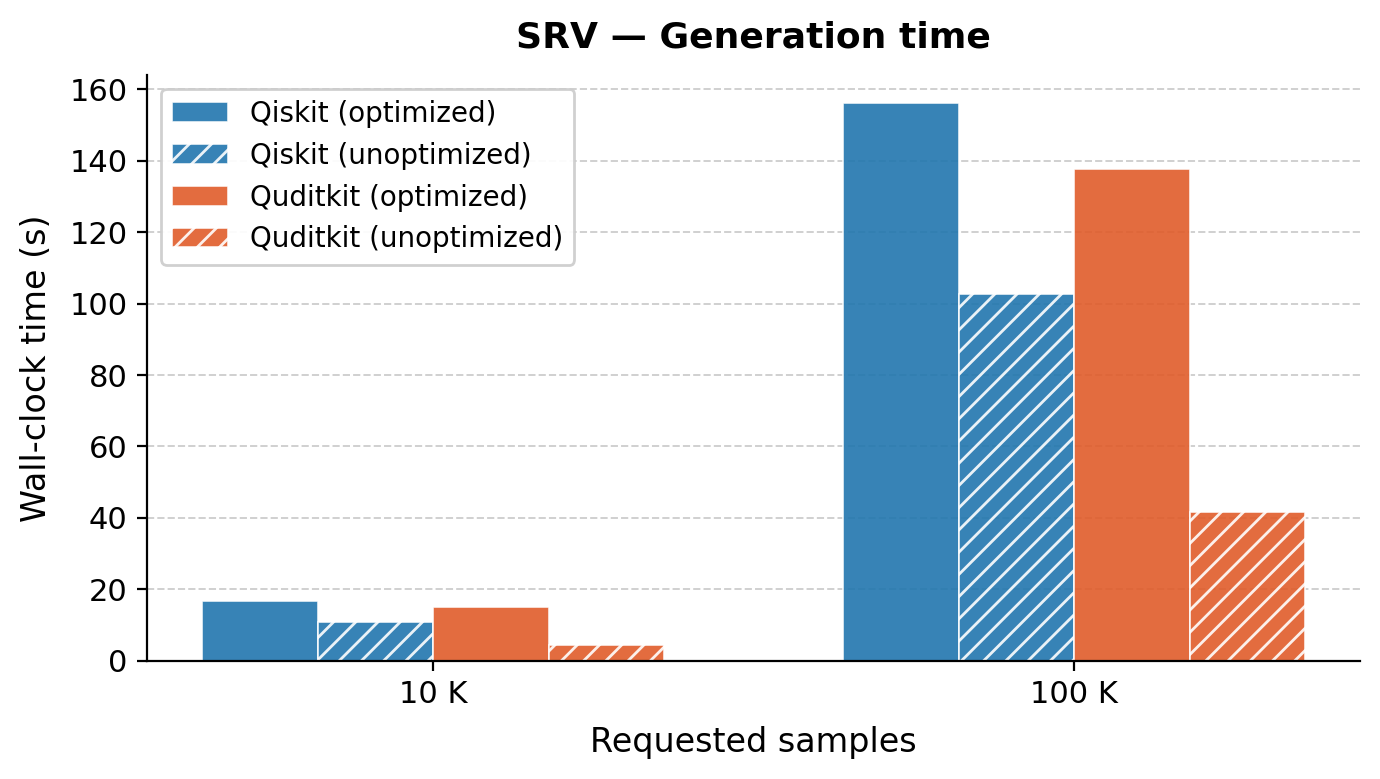
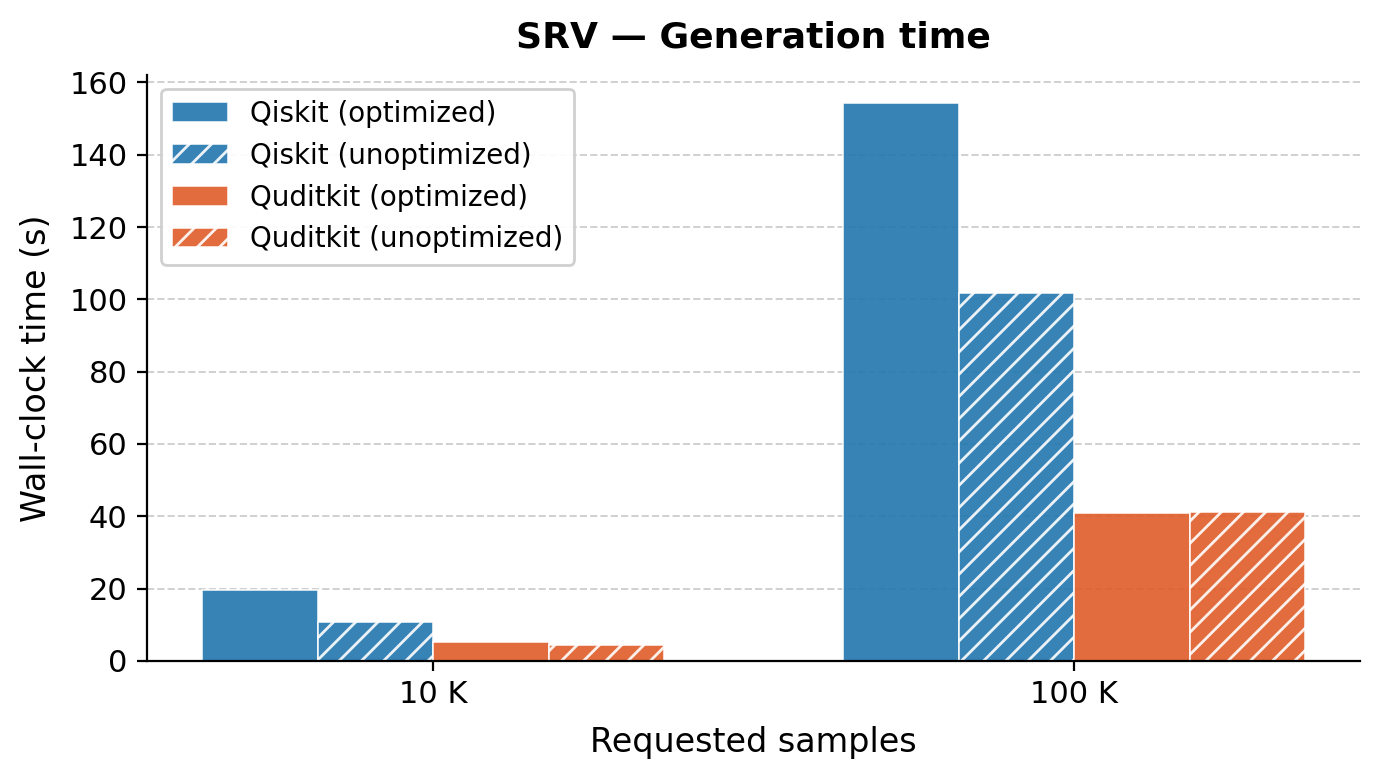
Updated experiments and reports

diff --git a/reports/curriculum-learning/notes.md b/reports/curriculum-learning/notes.md
@@ -1,0 +1,71 @@
+# Curriculum Learning Investigation Notes
+
+**Date:** 2026-04-21
+**Status:** In progress — stage2 underperforms baseline
+
+## Current Results (128 eval unitaries, 128 samples each)
+
+| Model | exact_found_rate | mean_distinct_correct | mean_best_model_distance |
+|---|---|---|---|
+| baseline | 0.617 | 23.80 | 0.078 |
+| curriculum-stage2 | 0.531 | 9.09 | 0.461 |
+
+## Dataset Sizes (actual stored tensors)
+
+| Dataset | num_samples (config) | final samples | ratio to baseline |
+|---|---|---|---|
+| baseline train | 4,000,000 | 2,118,117 | 1.0x |
+| stage1 | 3,000,000 | 295,820 | 0.14x |
+| **stage2** | **500,000** | **163,944** | **0.08x** |
+
+Stage2 has **13x fewer samples** than baseline. This is the dominant factor.
+
+## Root Causes (ranked)
+
+### 1. Stage2 dataset far too small
+`num_samples: 500000` in `unitary_curriculum_stage2_qiskit.yaml` vs `4000000` in baseline.
+After dedup + balance-by-gate-length pipeline, 500K raw -> 164K final vs 4M raw -> 2.1M final.
+The model gets ~13x less training data during the critical fine-tuning phase.
+
+### 2. OneCycleLR inappropriate for fine-tuning
+Both stages use `OneCycleLR`. This scheduler ramps LR up then anneals to near-zero — designed for from-scratch training. For fine-tuning from pretrained weights, the warmup phase disrupts learned features. Literature recommends cosine annealing without warmup or constant-then-decay.
+
+### 3. Gate-set change is not true curriculum learning
+Removing CCX from stage1 doesn't simplify the task — it changes the distribution. The model learns "CCX never appears" (the CCX token embedding gets no useful gradient). In stage2, this becomes negative transfer. Recent diffusion curriculum papers (arXiv:2403.10348, arXiv:2405.13637) show that effective curricula vary difficulty within the same distribution (e.g., denoising timestep difficulty, circuit length), not between distributions.
+
+### 4. Backend mismatch between stages
+Stage1 uses quditkit, stage2 uses qiskit. Even for the same gate set, the backends produce circuits with different statistical properties. Unique-sample ratio at 100K: 69.4% (quditkit optimized) vs 75.9% (qiskit optimized).
+
+## Training Config Comparison
+
+| Parameter | Stage1 | Stage2 | Baseline |
+|---|---|---|---|
+| num_epochs | 150 | 150 | 150 |
+| learning_rate | 3e-4 | 5e-5 | 3e-4 |
+| batch_size | 256 | 256 | 256 |
+| lr_scheduler | OneCycleLR | OneCycleLR | OneCycleLR |
+| dataset samples | 295,820 | 163,944 | 2,118,117 |
+| gradient steps/epoch | ~1,156 | ~640 | ~8,274 |
+
+## Proposed Fixes
+
+### A. Fix the current approach
+1. Increase `num_samples` in stage2 config to 4,000,000 (match baseline data budget)
+2. Switch stage2 LR scheduler to CosineAnnealingLR (no warmup) for fine-tuning
+3. Consider more stage2 epochs or early stopping
+
+### B. Redesign curriculum (same distribution)
+- Stage1: full gate set {H, CX, Z, X, CCX, SWAP}, short circuits (2-6 gates)
+- Stage2: full gate set, full range (2-12 gates)
+- Both stages use same backend (qiskit), no distribution shift
+
+### C. Timestep curriculum (single stage)
+Schedule which denoising timesteps are sampled during training: start with high-noise (easy), gradually include low-noise (hard). No dataset changes needed.
+
+### D. Mixed/replay training
+During stage2, mix stage1 samples into batches (e.g., 20/80 split) to prevent catastrophic forgetting and increase data volume.
+
+## References
+- arXiv:2403.10348 — Denoising Task Difficulty-based Curriculum for Diffusion Models
+- arXiv:2405.13637 — Curriculum Direct Preference Optimization (CVPR 2025)
+- arXiv:2101.10382 — Curriculum Learning: A Survey

diff --git a/reports/srv-dataset-backend-comparison/README.md b/reports/srv-dataset-backend-comparison/README.md
@@ -1,0 +1,43 @@
+# Quditkit vs Qiskit — Dataset Generation Comparison
+
+Artifacts from `artifacts/evaluations/srv_dataset_backend_comparison/backend_comparison/`.
+Full run details in `notebooks/datasets/dataset_generation_quditkit_vs_qiskit.ipynb`.
+
+Second run includes native quditkit circuit optimizer (`circuit_optimizer.py`) replacing
+the previous qiskit round-trip for quditkit-optimized cases.
+
+---
+
+## SRV task (5 qubits, gates: h/cx, min 4 – max 20)
+
+| Backend | Optimized | unique_ratio 10k | unique_ratio 100k | time 100k |
+|---------|-----------|-----------------|-------------------|-----------|
+| qiskit  | No        | 0.998            | 0.997             | 101.9 s   |
+| qiskit  | Yes       | 0.980            | 0.944             | 154.4 s   |
+| quditkit| No        | 0.998            | 0.997             | 41.3 s    |
+| quditkit| Yes       | 0.988            | **0.966**         | **40.9 s**|
+
+- quditkit (optimized) is **3.8× faster** than qiskit (optimized) at 100k.
+- Unique ratio is comparable to qiskit optimized, slightly better at 100k (0.966 vs 0.944).
+
+## Unitary task (3 qubits, gates: h/cx/z/x/swap, min 2 – max 12)
+
+| Backend | Optimized | unique_ratio 10k | unique_ratio 100k | time 100k |
+|---------|-----------|-----------------|-------------------|-----------|
+| qiskit  | No        | 0.938            | 0.867             | 43.9 s    |
+| qiskit  | Yes       | 0.867            | 0.759             | 100.5 s   |
+| quditkit| No        | 0.935            | 0.866             | 34.0 s    |
+| quditkit| Yes       | 0.812            | **0.694**         | **29.7 s**|
+
+- quditkit (optimized) is **3.4× faster** than qiskit (optimized) at 100k.
+- quditkit (optimized) is faster than quditkit (unoptimized) — shorter circuits mean cheaper unitary computation.
+- Lower unique ratio (0.694 vs 0.759): the native optimizer is more aggressive than qiskit's level-1 transpiler; more random circuits collapse to the same canonical form. Expected behavior, not a bug. For a 3M training run with post-generation balancing this is acceptable.
+
+## Figures
+
+- `srv_generation_time.png` — wall-clock time by backend/size/optimization
+- `srv_unique_ratio.png` — unique sample ratio for SRV
+- `unitary_generation_time.png` — wall-clock time for unitary task
+- `unitary_unique_ratio.png` — unique sample ratio for unitary task
+- `srv_summary.csv` / `unitary_summary.csv` — per-task summary tables
+- `all_runs.csv` — full results across all 16 cases